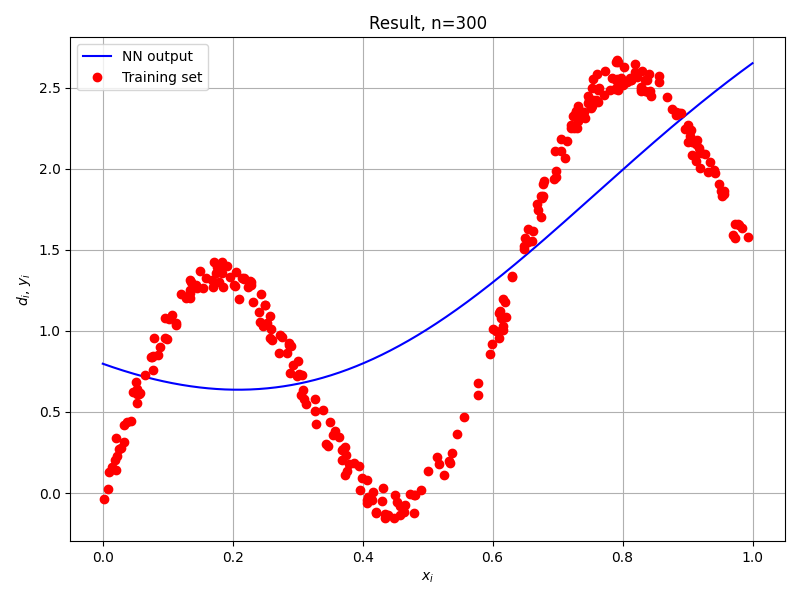
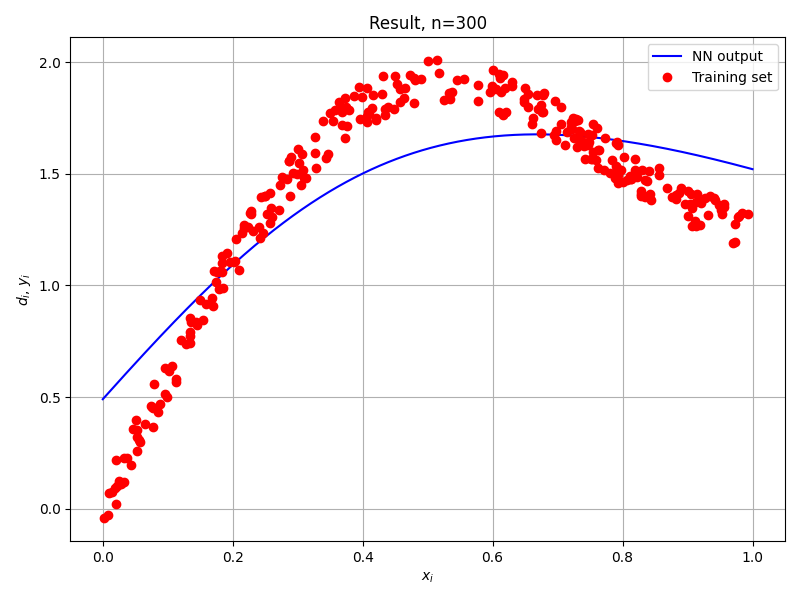
Update model target function

diff --git a/model/curve_fitting_nn.py b/model/curve_fitting_nn.py
@@ -1,6 +1,7 @@
 import numpy as np
 import matplotlib.pyplot as plt
 import os
+import sys
 from typing import Callable
 import warnings
 
@@ -184,7 +185,7 @@ class CurveFitter:
 
     def train(
         self, n_epochs: int, learn_rate: float, batch_size: int = 1, norm: bool = False
-    ):
+    ) -> tuple[np.ndarray, list]:
         """
         train
         ---
@@ -200,6 +201,7 @@ class CurveFitter:
         ### Output parameters
         - grad_matrix: (n_parameters x n_updates) matrix having as columns the gradient
         values at each update; the number of updates is: floor(n_epochs * n_train / batch_size)
+        - mse_per_epoch: MSE values at each training epoch
         """
         # TODO: checks
         self.checkTrainInit()
@@ -405,7 +407,7 @@ def targetFunction(x: float) -> float:
 
     $ y = \sin{(20x)} + 3x$
     """
-    return np.sin(10 * x) + 2 * x
+    return np.sin(4 * x) + 2 * x
 
 
 # +--------------------------------------------------------------------+
@@ -433,8 +435,13 @@ def main(n: int, N: int, img_folder: str, plots: bool = False):
 
     # Launch BP algorithm
     eta = 5e-3
-    n_epochs = 600
-    grad_matrix_train = myNN.train(n_epochs, eta, 12)
+    if len(sys.argv) == 3:
+        n_epochs = int(sys.argv[1])
+        batch_size = int(sys.argv[2])
+    else:
+        n_epochs = 800
+        batch_size = 5
+    myNN.train(n_epochs, eta, batch_size)
 
     print("BP terminated!")
 
